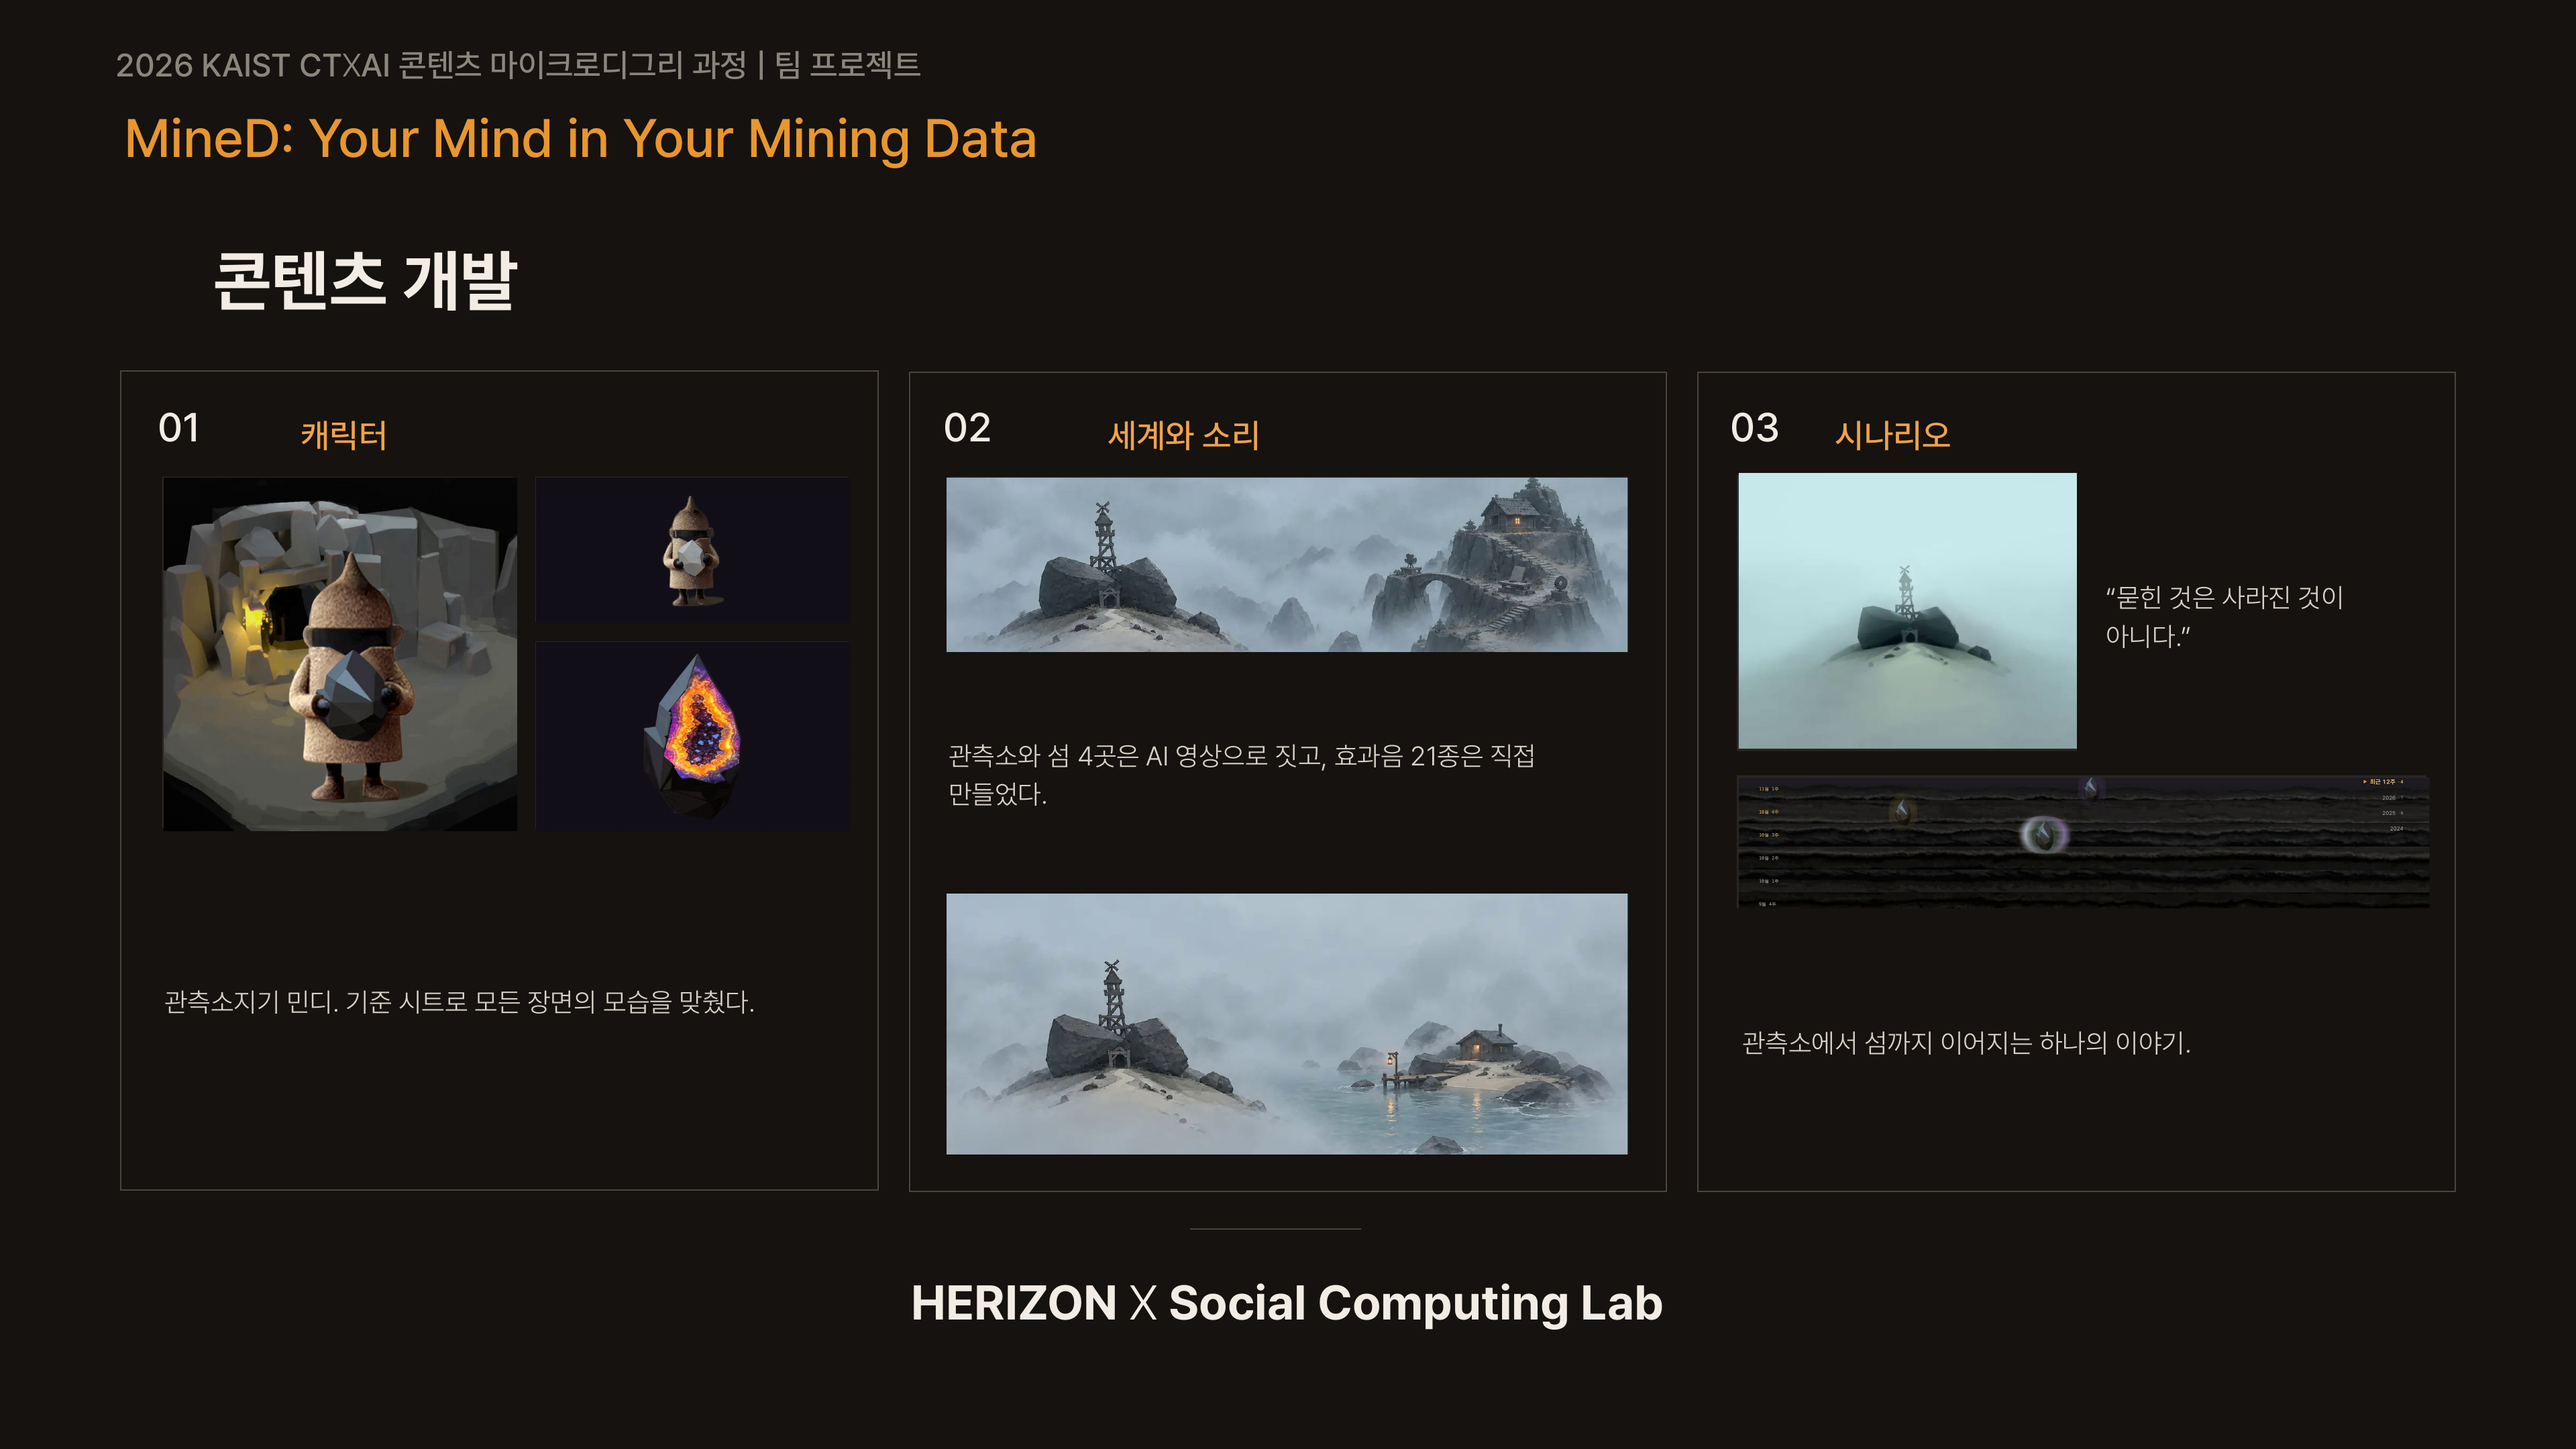
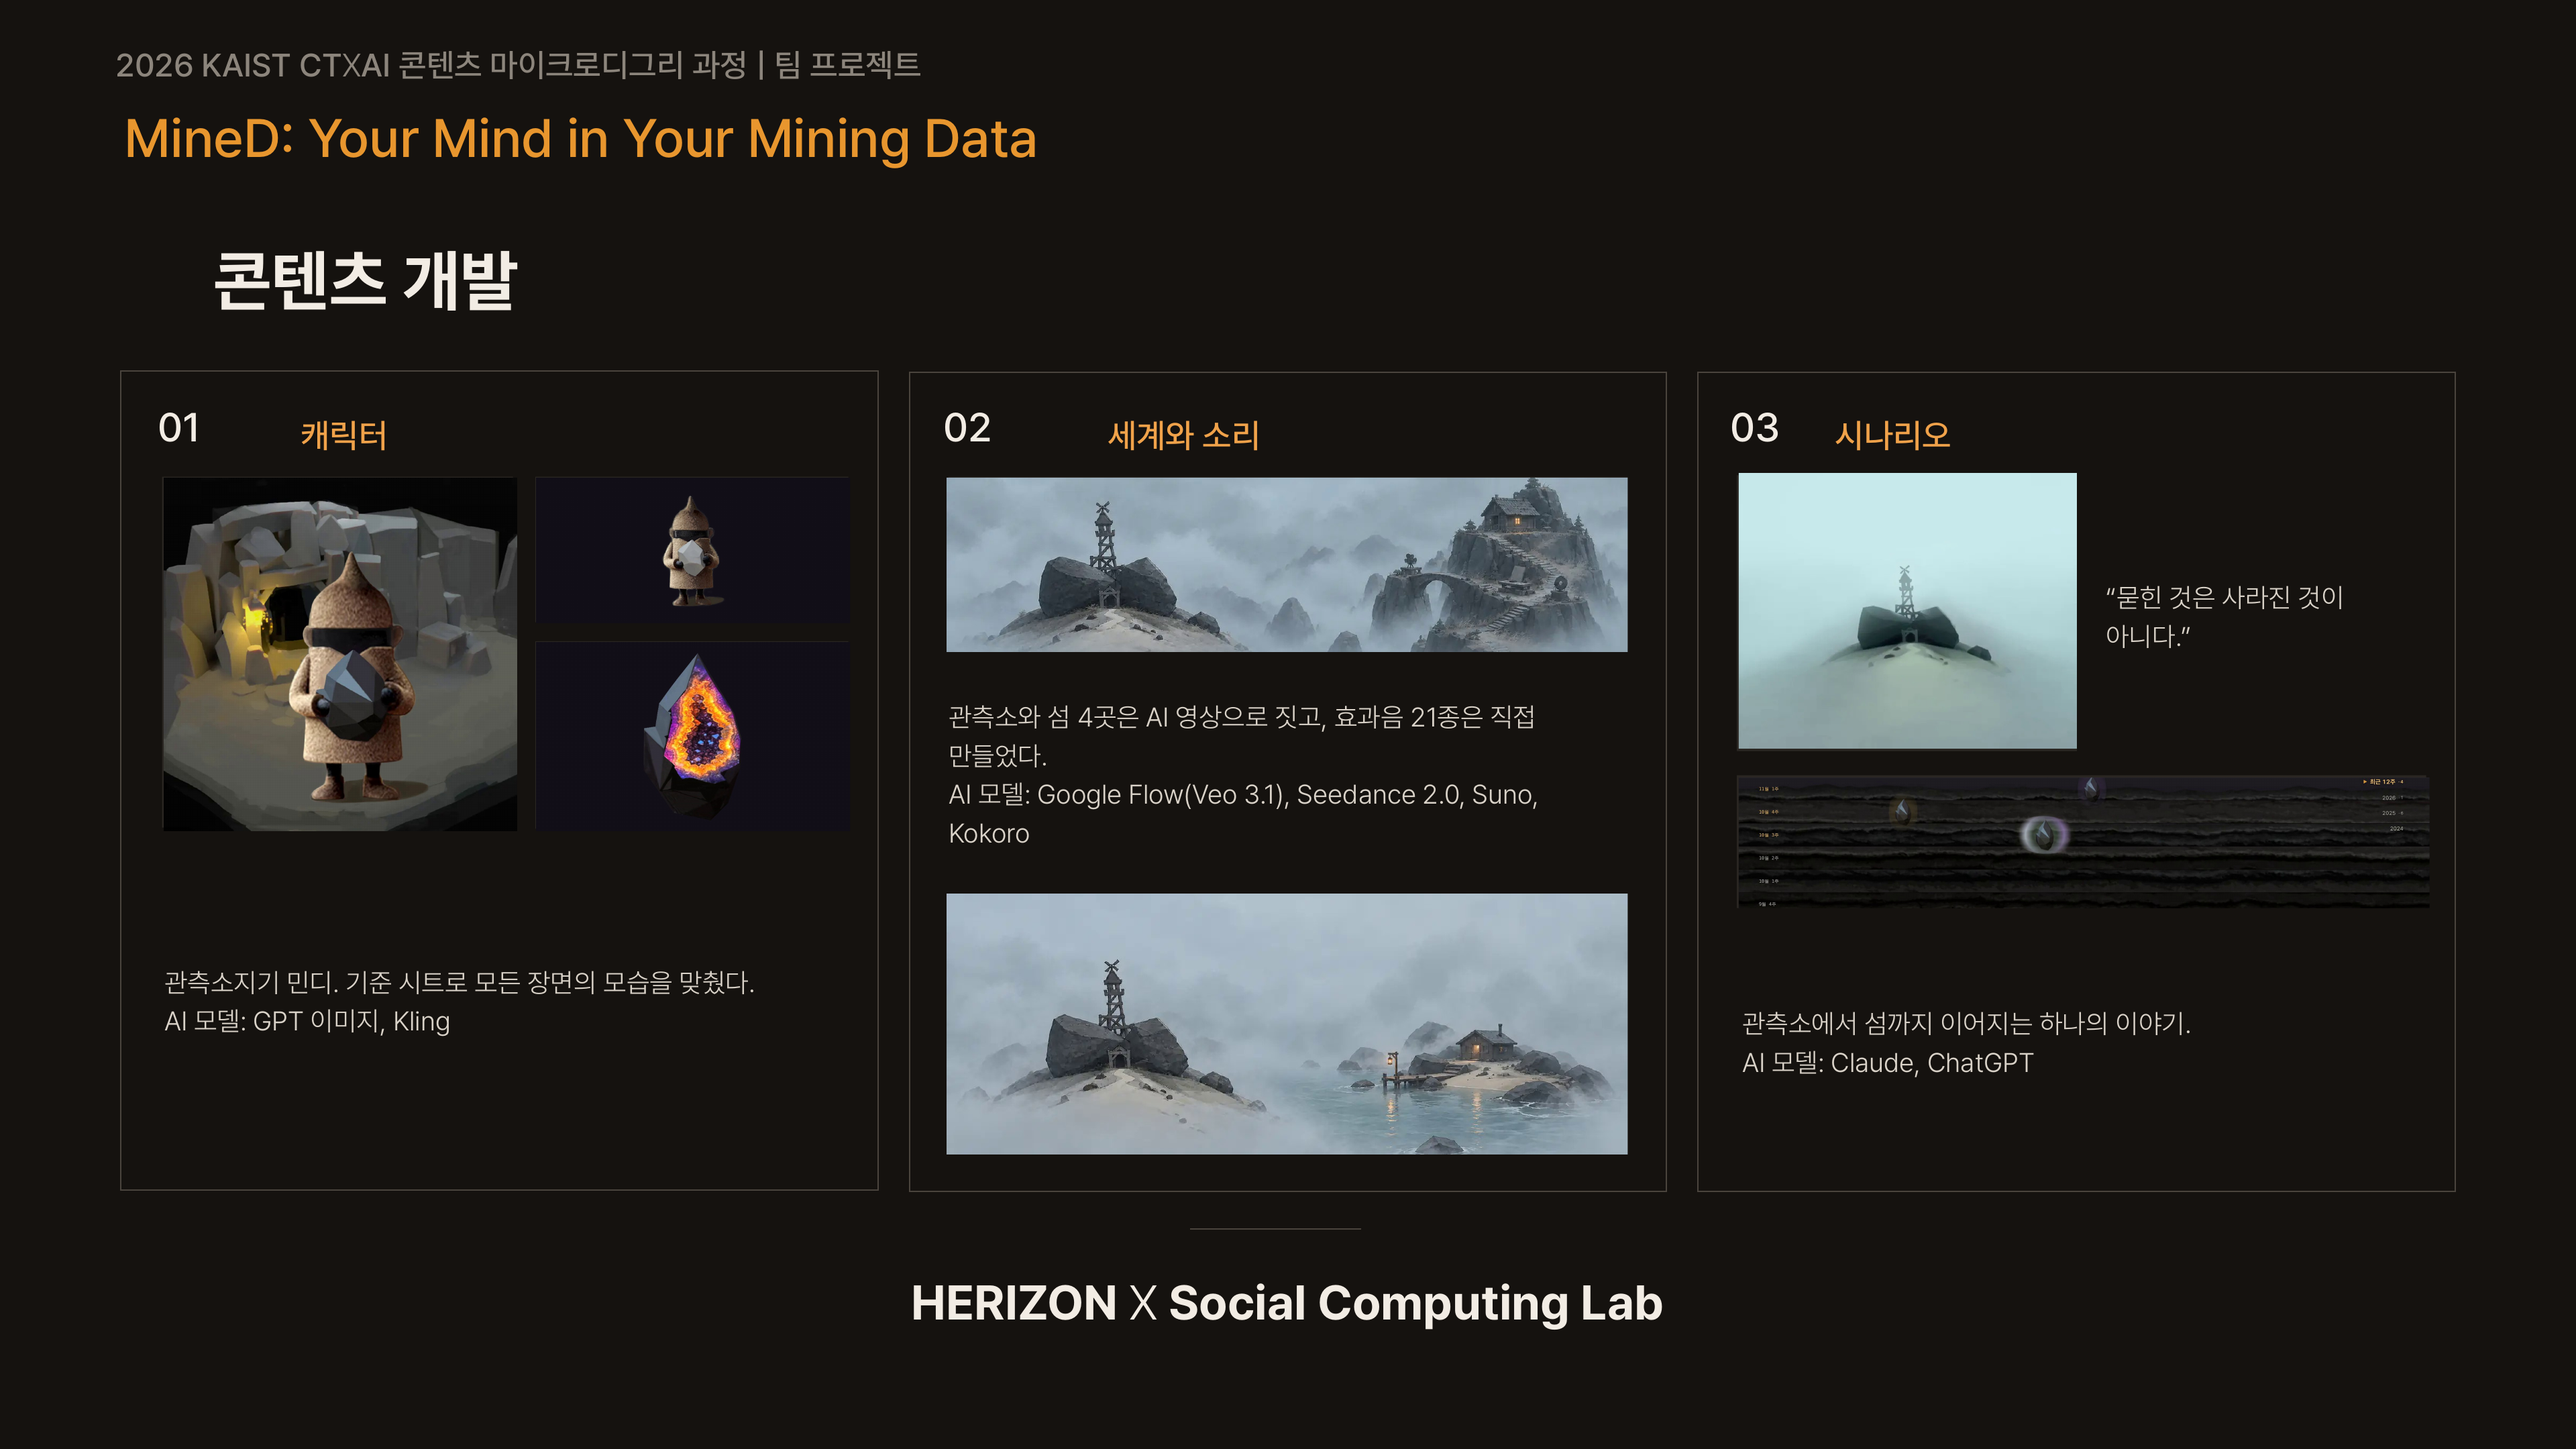
레이아웃 장: 양식 견본 문구 보충(구현 기술 연구실 챗봇 문장, 콘텐츠 개발 AI 모델 줄)
Claude-Session: https://claude.ai/code/session_01H6XxrjKT2zziYGGeC5Esr8

Changed region(s): [[0.375, 0.4963, 0.5938, 0.5894], [0.0625, 0.6514, 0.2812, 0.7134], [0.6875, 0.6824, 0.8438, 0.7444]]

diff --git a/showcase/v0.5_kit/layout/fill.py b/showcase/v0.5_kit/layout/fill.py
@@ -66,7 +66,7 @@ def pic(slide, path, x, y, w, h):
 SCEN_S = '흩어진 나의 기록을 지층으로 쌓고, 평소와 달랐던 주를 광석으로 캐내는 웹 체험.'
 SCEN_L = '앞으로만 달려온 나에게 잠시 쉬어 갈 곳. 흩어진 기록이 한 주에 한 층씩 쌓이고, 평소와 달랐던 주는 광석이 된다. 민디와 나눈 말로 나만의 섬을 짓는다.'
 TECH_S = '한 주를 한 층으로. 기록은 기기 안에서만 읽고, 달랐던 축을 결 색으로 보여 준다.'
-TECH_L = '기록을 ‘한 주 = 한 층’으로 다시 정의했다. 수면·걸음·언어·소통 네 축을 나의 평소와 비교해, 달랐던 주는 광석으로, 달랐던 축은 결 색으로 바꾼다. 원문은 기기 밖으로 나가지 않는다.'
+TECH_L = '기록을 ‘한 주 = 한 층’으로 다시 정의했다. 수면·걸음·언어·소통 네 축을 나의 평소와 비교해 달랐던 주는 광석, 달랐던 축은 결 색으로 보여 준다. 원문은 기기 밖으로 나가지 않는다. KAIST 문화기술대학원 Social Computing Lab은 기록 기반 개인 챗봇을 개발해, 민디와의 대화에 연계하도록 설계했다.'
 AITOOL = 'Claude, ChatGPT, Google Flow(Veo 3.1), Seedance 2.0, GPT 이미지, Kling, Gemini, Suno, Kokoro, MediaPipe, CLIP'
 
 def tech_box(slide, body):
@@ -92,12 +92,12 @@ bodies = [sh for sh in s9.shapes if sh.has_text_frame and sh.text_frame.text.sta
 bodies.sort(key=lambda sh: (sh.left, sh.top))
 b1, b2, b3a, b3b = bodies  # x순: 3.3 / 19.5 / 36.0(19.3) / 43.5
 if b3a.left > b3b.left: b3a, b3b = b3b, b3a
-set_text(b1, ['관측소지기 민디. 기준 시트로 모든 장면의 모습을 맞췄다.'], DARK)
-set_text(b2, ['관측소와 섬 4곳은 AI 영상으로 짓고, 효과음 21종은 직접 만들었다.'], DARK)
+set_text(b1, ['관측소지기 민디. 기준 시트로 모든 장면의 모습을 맞췄다.', 'AI 모델: GPT 이미지, Kling'], DARK)
+set_text(b2, ['관측소와 섬 4곳은 AI 영상으로 짓고, 효과음 21종은 직접 만들었다.', 'AI 모델: Google Flow(Veo 3.1), Seedance 2.0, Suno, Kokoro'], DARK)
 # b3a: 36.0,19.3 넓은 글 / b3b: 43.5,9.6 좁은 글
 nar, wide = (b3b, b3a) if b3b.width < b3a.width else (b3a, b3b)
 set_text(nar, ['“묻힌 것은 사라진 것이 아니다.”'], DARK)
-set_text(wide, ['관측소에서 섬까지 이어지는 하나의 이야기.'], DARK)
+set_text(wide, ['관측소에서 섬까지 이어지는 하나의 이야기.', 'AI 모델: Claude, ChatGPT'], DARK)
 I = lambda f: f'{IMG}/{f}'
 pic(s9, I('mindi_sq.png'), 3.4, 9.9, 7.3, 7.3)
 pic(s9, I('mindi_character_box.png'), 11.1, 9.9, 6.5, 3.0)
